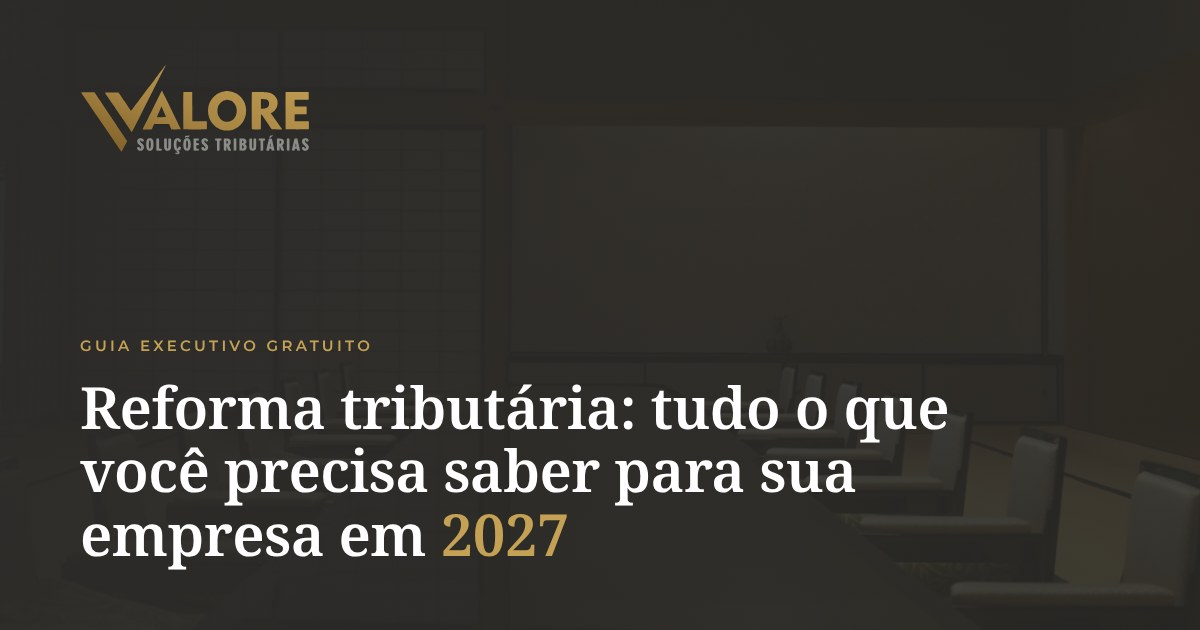
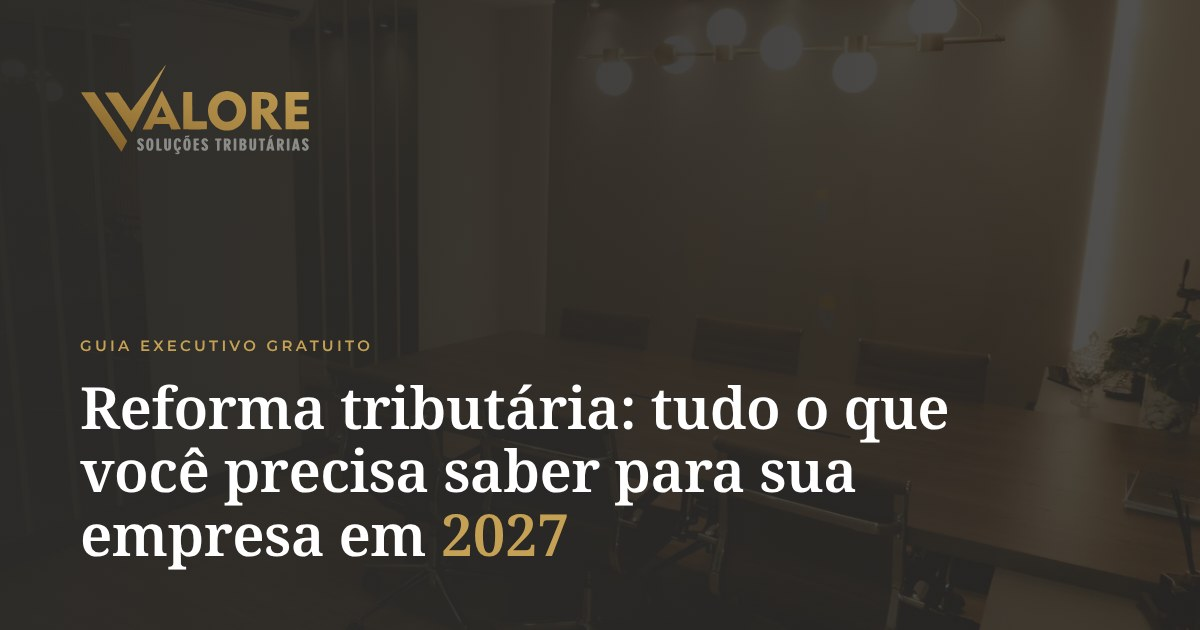
Fotos reais do escritório no lugar das imagens do manual de marca
- Topo, guia, cronograma, prazos, manifesto, "Sobre" e fechamento usam
  as fotos do escritório e da Katrin trabalhando (Google Drive, alta
  resolução, 2400 px nas fotos de fundo)
- Galeria com escritório, Katrin trabalhando e duas fotos da Virgínia
  em aula e palestra (Instagram)
- Capa do guia é a capa real do PDF
- Página de obrigado e imagem de compartilhamento com a sala de reunião
- Mantém as fotos das sócias; remove as imagens do manual de marca

Claude-Session: https://claude.ai/code/session_0187kyQenovXK9hrqJxZ2YH7

Changed region(s): [[0.555, 0.0, 1.0, 0.9048], [0.4933, 0.0905, 0.5242, 0.1508], [0.8633, 0.9952, 0.8942, 1.0]]

diff --git a/src/pages/Capture.tsx b/src/pages/Capture.tsx
@@ -115,13 +115,15 @@ function Hero() {
     <section ref={ref} className="on-dark relative isolate overflow-hidden bg-graphite-2 pt-32 pb-20 text-white md:pt-40 lg:min-h-screen lg:pb-28">
       <motion.div style={{ y }} className="absolute inset-0 -z-10">
         <motion.img
-          src="/img/sala-reuniao.webp"
+          src="/img/escritorio-sala-2400.webp"
+          srcSet="/img/escritorio-sala-1280.webp 1280w, /img/escritorio-sala-2400.webp 2400w" sizes="100vw"
+          fetchPriority="high"
           alt=""
           aria-hidden="true"
           initial={{ scale: 1.25 }}
           animate={{ scale: 1.05 }}
           transition={{ duration: 3, ease: [0.22, 1, 0.36, 1] }}
-          className="h-[120%] w-full object-cover object-[50%_62%] blur-[1.5px]"
+          className="h-[120%] w-full object-cover object-[50%_55%]"
         />
       </motion.div>
       <div aria-hidden="true" className="absolute inset-0 -z-10 bg-[linear-gradient(90deg,rgb(44_43_41/0.93)_0%,rgb(44_43_41/0.8)_50%,rgb(44_43_41/0.45)_100%)]" />
@@ -248,7 +250,7 @@ export default function CapturePage() {
           <SectionNumber n="01" />
           <div className="relative container-lp grid items-center gap-16 lg:grid-cols-[0.95fr_1.05fr] lg:gap-20">
             <div className="relative">
-              <RevealImage src="/img/xicaras.webp" alt="Xícaras e cartão de visita da Valore" className="aspect-[4/5] w-[85%]" imgClassName="object-cover" parallax={6} />
+              <RevealImage src="/img/escritorio-recepcao-1400.webp" alt="Recepção do escritório da Valore, em Maringá" className="aspect-[4/5] w-[85%]" imgClassName="object-cover" parallax={6} />
               <div className="absolute top-1/2 right-0 w-[55%] -translate-y-1/2">
                 <GuideCover />
               </div>
@@ -284,7 +286,7 @@ export default function CapturePage() {
         {/* O QUE MUDA E QUANDO → PRAZOS: o bloco 03 sobe por cima do 02 */}
         <CoverTransition
           under={
-        <PhotoSection src="/img/predios.webp" className="py-24 md:py-36" overlay="bg-graphite-2/85" soften>
+        <PhotoSection src="/img/escritorio-mesa-1400.webp" className="py-24 md:py-36" overlay="bg-graphite-2/85" soften>
           <SectionNumber n="02" dark />
           <div className="relative container-lp">
             <Chapter n="02" label="Cronograma da transição" dark />
@@ -339,7 +341,7 @@ export default function CapturePage() {
           <SectionNumber n="03" />
           <div className="relative container-lp grid items-center gap-14 lg:grid-cols-2 lg:gap-20">
             <div className="relative">
-              <RevealImage src="/img/contrato.webp" alt="Assinatura de contrato com balança da justiça e martelo" className="aspect-[4/5] lg:aspect-[3/4]" imgClassName="object-cover" parallax={8} />
+              <RevealImage src="/img/katrin-trabalhando-2400.webp" alt="Katrin Arrais trabalhando no escritório da Valore" className="aspect-[4/5] lg:aspect-[3/4]" imgClassName="object-cover" parallax={8} />
               <div className="on-dark absolute inset-x-3 bottom-3 bg-graphite-2/90 p-4 backdrop-blur-sm sm:inset-x-6 sm:bottom-6 sm:p-6">
                 <Countdown dark />
               </div>
@@ -383,7 +385,7 @@ export default function CapturePage() {
         />
 
         {/* FAIXA MANIFESTO — frase que acende ao rolar */}
-        <Manifesto src="/img/martelo.webp" text="Porque mais do que números, geramos *valor* para o seu negócio." />
+        <Manifesto src="/img/escritorio-sala-2-1400.webp" text="Porque mais do que números, geramos *valor* para o seu negócio." />
 
         {/* SOBRE A VALORE */}
         <section className="relative overflow-hidden pt-16 pb-24 md:pt-20 md:pb-32">
@@ -391,9 +393,9 @@ export default function CapturePage() {
           <Divider className="relative mb-16 md:mb-20" />
           <div className="relative container-lp grid items-center gap-16 lg:grid-cols-2 lg:gap-20">
             <div className="relative pb-20 sm:pb-28">
-              <RevealImage src="/img/kit-presente.webp" alt="Kit Valore em preto e dourado, com canecas e garrafa" className="aspect-[4/3] w-[86%]" imgClassName="object-cover" parallax={6} />
+              <RevealImage src="/img/katrin-trabalhando-2-2400.webp" alt="Katrin Arrais na mesa de trabalho, com o notebook da Valore" className="aspect-[4/3] w-[86%]" imgClassName="object-cover" parallax={6} />
               <div className="absolute right-0 bottom-0 w-[50%] bg-paper p-1.5">
-                <RevealImage src="/img/papelaria.webp" alt="Papelaria Valore" className="aspect-[4/3]" imgClassName="object-cover" delay={0.3} />
+                <RevealImage src="/img/escritorio-sala-1280.webp" alt="Sala de reunião do escritório da Valore" className="aspect-[4/3]" imgClassName="object-cover" delay={0.3} />
               </div>
             </div>
             <div>
@@ -418,7 +420,7 @@ export default function CapturePage() {
         </section>
 
         {/* CTA FINAL */}
-        <PhotoSection src="/img/kit-presente.webp" id="cta-final" className="py-28 md:py-36" overlay="bg-graphite-2/70">
+        <PhotoSection src="/img/escritorio-recepcao-1400.webp" id="cta-final" className="py-28 md:py-36" overlay="bg-graphite-2/80">
           <motion.img
             src="/img/v-dourado.webp"
             alt=""

diff --git a/index.html b/index.html
@@ -33,7 +33,7 @@
     <meta name="twitter:title" content="Reforma tributária: tudo o que você precisa saber para sua empresa em 2027" />
     <meta name="twitter:description" content="Guia gratuito da Valore sobre a reforma tributária: CBS, IBS, split payment, regime tributário e prazos de 2027. Proteja a margem, o caixa e os créditos da sua empresa." />
     <meta name="twitter:image" content="https://guia.valoretribut.com/img/og-valore.jpg" />
-    <link rel="preload" as="image" href="/img/sala-reuniao.webp" fetchpriority="high" />
+    <link rel="preload" as="image" href="/img/escritorio-sala-2400.webp" imagesrcset="/img/escritorio-sala-1280.webp 1280w, /img/escritorio-sala-2400.webp 2400w" imagesizes="100vw" fetchpriority="high" />
     <script type="application/ld+json">{"@context": "https://schema.org", "@graph": [{"@type": ["ProfessionalService", "LegalService"], "@id": "https://valoretribut.com/#empresa", "name": "Valore Soluções Tributárias", "url": "https://valoretribut.com/", "logo": "https://guia.valoretribut.com/favicon.svg", "image": "https://guia.valoretribut.com/img/og-valore.jpg", "description": "Consultoria tributária em Maringá (PR): planejamento tributário, recuperação de créditos, contencioso e preparação para a reforma tributária.", "telephone": "+55-44-3122-0433", "address": {"@type": "PostalAddress", "streetAddress": "Avenida Brasil, 4312, Sala 1410", "addressLocality": "Maringá", "addressRegion": "PR", "postalCode": "87013-000", "addressCountry": "BR"}, "areaServed": "BR", "sameAs": ["https://www.instagram.com/valore_st/", "https://valoretribut.com/"], "founder": [{"@type": "Person", "name": "Virgínia Dalla Flora", "jobTitle": "Sócia fundadora"}, {"@type": "Person", "name": "Katrin Arrais", "jobTitle": "Sócia fundadora"}]}, {"@type": "WebPage", "@id": "https://guia.valoretribut.com/#pagina", "url": "https://guia.valoretribut.com/", "inLanguage": "pt-BR", "name": "Reforma tributária: tudo o que você precisa saber para sua empresa em 2027", "description": "Guia gratuito da Valore sobre a reforma tributária: CBS, IBS, split payment, regime tributário e prazos de 2027. Proteja a margem, o caixa e os créditos da sua empresa.", "publisher": {"@id": "https://valoretribut.com/#empresa"}, "primaryImageOfPage": "https://guia.valoretribut.com/img/og-valore.jpg", "mainEntity": {"@type": "CreativeWork", "name": "Reforma tributária: os principais insights de planejamento tributário para empresas", "about": ["Reforma tributária", "CBS", "IBS", "Split payment", "Planejamento tributário"], "inLanguage": "pt-BR", "isAccessibleForFree": true, "author": {"@id": "https://valoretribut.com/#empresa"}, "encodingFormat": "application/pdf"}}]}</script>
   </head>
   <body>

diff --git a/src/components/GuideCover.tsx b/src/components/GuideCover.tsx
@@ -1,11 +1,10 @@
 import { motion, useMotionTemplate, useMotionValue, useReducedMotion, useScroll, useSpring, useTransform } from 'framer-motion'
 import { useRef, type PointerEvent } from 'react'
-import { Logo } from './Logo'
 
 const spring = { stiffness: 160, damping: 18, mass: 0.6 }
 
 /**
- * Capa do guia em papel, com sombra real e leve deslocamento ao rolar.
+ * Capa real do guia (página 1 do PDF), em papel, com sombra e leve deslocamento ao rolar.
  * No desktop, inclina em 3D seguindo o mouse, com um reflexo de luz sobre a capa.
  */
 export function GuideCover({ className = '' }: { className?: string }) {
@@ -49,20 +48,13 @@ export function GuideCover({ className = '' }: { className?: string }) {
         <div aria-hidden="true" className="absolute inset-0 translate-x-2.5 translate-y-2.5 bg-[#e9e5dc] shadow-sm" />
         <div aria-hidden="true" className="absolute inset-0 translate-x-1.5 translate-y-1.5 bg-[#f1eee8]" />
 
-        <div className="relative aspect-[210/297] overflow-hidden bg-graphite shadow-[0_40px_60px_-30px_rgb(44_43_41/0.55)]">
-          <img src="/img/sala-reuniao.webp" alt="" className="absolute inset-0 h-full w-full object-cover opacity-45" />
-          <div className="absolute inset-0 bg-gradient-to-b from-graphite/30 via-graphite/60 to-graphite" />
-          <div className="relative flex h-full flex-col p-[10%] text-white">
-            <Logo className="w-[58%]" subtitleColor="#b4b5b1" />
-            <div className="mt-auto">
-              <div className="mb-5 h-px w-14 bg-gold" />
-              <p className="font-serif text-[1.65rem] leading-[1.1] font-semibold">Reforma Tributária</p>
-              <p className="mt-3 text-[0.78rem] leading-relaxed text-white/80">
-                Os principais insights de planejamento tributário para empresas
-              </p>
-              <p className="mt-6 text-[0.58rem] font-semibold tracking-[0.24em] text-gold uppercase">Guia executivo</p>
-            </div>
-          </div>
+        <div className="relative aspect-[800/1250] overflow-hidden bg-[#cfcfcf] shadow-[0_40px_60px_-30px_rgb(44_43_41/0.55)]">
+          <img
+            src="/img/guia-capa.webp"
+            alt="Capa do guia Reforma Tributária: os principais insights de planejamento tributário para empresas"
+            loading="lazy"
+            className="absolute inset-0 h-full w-full object-cover"
+          />
           <motion.div aria-hidden="true" style={{ background: glare, opacity: glareOpacity }} className="pointer-events-none absolute inset-0" />
         </div>
       </motion.div>

diff --git a/src/components/Gallery.tsx b/src/components/Gallery.tsx
@@ -2,13 +2,14 @@ import { motion, useScroll, useSpring, useTransform } from 'framer-motion'
 import { useLayoutEffect, useRef, useState } from 'react'
 
 const images = [
-  { src: '/img/kit-presente.webp', alt: 'Kit Valore em preto e dourado' },
-  { src: '/img/aperto-de-maos.webp', alt: 'Aperto de mãos sobre a mesa de reunião' },
-  { src: '/img/xicaras.webp', alt: 'Xícaras e cartão de visita Valore' },
-  { src: '/img/contrato.webp', alt: 'Assinatura de contrato com balança da justiça ao fundo' },
-  { src: '/img/papelaria.webp', alt: 'Papelaria Valore' },
-  { src: '/img/canecas.webp', alt: 'Canecas Valore em dourado e grafite' },
-  { src: '/img/livros.webp', alt: 'Livros de Direito' },
+  { src: '/img/escritorio-sala-1280.webp', alt: 'Sala de reunião do escritório da Valore' },
+  { src: '/img/escritorio-recepcao-800.webp', alt: 'Recepção do escritório da Valore' },
+  { src: '/img/virginia-aula.webp', alt: 'Virgínia Dalla Flora em aula sobre tributação' },
+  { src: '/img/katrin-trabalhando-1280.webp', alt: 'Katrin Arrais trabalhando no escritório' },
+  { src: '/img/virginia-palestra.webp', alt: 'Virgínia Dalla Flora em palestra sobre os impactos da reforma tributária' },
+  { src: '/img/escritorio-sala-2-800.webp', alt: 'Mesa de reunião do escritório da Valore' },
+  { src: '/img/katrin-trabalhando-2-1280.webp', alt: 'Katrin Arrais na mesa de trabalho' },
+  { src: '/img/escritorio-mesa-800.webp', alt: 'Sala de reunião com mesa em madeira' },
 ]
 
 /**

diff --git a/src/pages/Thanks.tsx b/src/pages/Thanks.tsx
@@ -38,7 +38,8 @@ export default function ThanksPage() {
         {/* GUIA LIBERADO */}
         <section className="on-dark relative isolate overflow-hidden bg-graphite-2 pt-36 pb-24 text-white md:pt-44 md:pb-32">
           <motion.img
-            src="/img/sala-reuniao.webp"
+            src="/img/escritorio-sala-2400.webp"
+            srcSet="/img/escritorio-sala-1280.webp 1280w, /img/escritorio-sala-2400.webp 2400w" sizes="100vw"
             alt=""
             aria-hidden="true"
             initial={{ scale: 1.1, opacity: 0 }}
@@ -81,7 +82,7 @@ export default function ThanksPage() {
         {/* PERGUNTA */}
         <section className="bg-white py-24 md:py-32">
           <div className="container-lp grid items-center gap-14 lg:grid-cols-2 lg:gap-20">
-            <RevealImage src="/img/aperto-de-maos.webp" alt="Aperto de mãos sobre a mesa de reunião" className="aspect-[4/3]" imgClassName="object-cover" parallax={6} />
+            <RevealImage src="/img/katrin-trabalhando-2-1280.webp" alt="Katrin Arrais trabalhando no escritório da Valore" className="aspect-[4/3]" imgClassName="object-cover" parallax={6} />
             <div>
               <Reveal>
                 <p className="kicker">Agora, a pergunta mais importante</p>

diff --git a/README.md b/README.md
@@ -59,4 +59,4 @@ integrations/google-apps-script/                  script da planilha de leads
 
 ## Identidade visual
 
-Paleta do manual de marca: dourado `#C5A155`, dourado escuro `#8E7743`, grafite `#3A3937`, cinza `#6A696D` e cinza claro `#CACACA`. Tipografia: Noto Serif nos títulos (alternativa gratuita à Argent CF das propostas) e Montserrat no texto (alternativa à Gotham). Fotos: sala de reunião da capa das propostas, fotos das sócias e imagens do manual de marca. O logotipo foi vetorizado a partir do arquivo original da marca (`public/logo-valore.svg`).
+Paleta do manual de marca: dourado `#C5A155`, dourado escuro `#8E7743`, grafite `#3A3937`, cinza `#6A696D` e cinza claro `#CACACA`. Tipografia: Noto Serif nos títulos (alternativa gratuita à Argent CF das propostas) e Montserrat no texto (alternativa à Gotham). Fotos: escritório da Valore e sócias (ensaio e site oficial), aulas e palestras do Instagram, e a capa real do guia. O logotipo foi vetorizado a partir do arquivo original da marca (`public/logo-valore.svg`).
